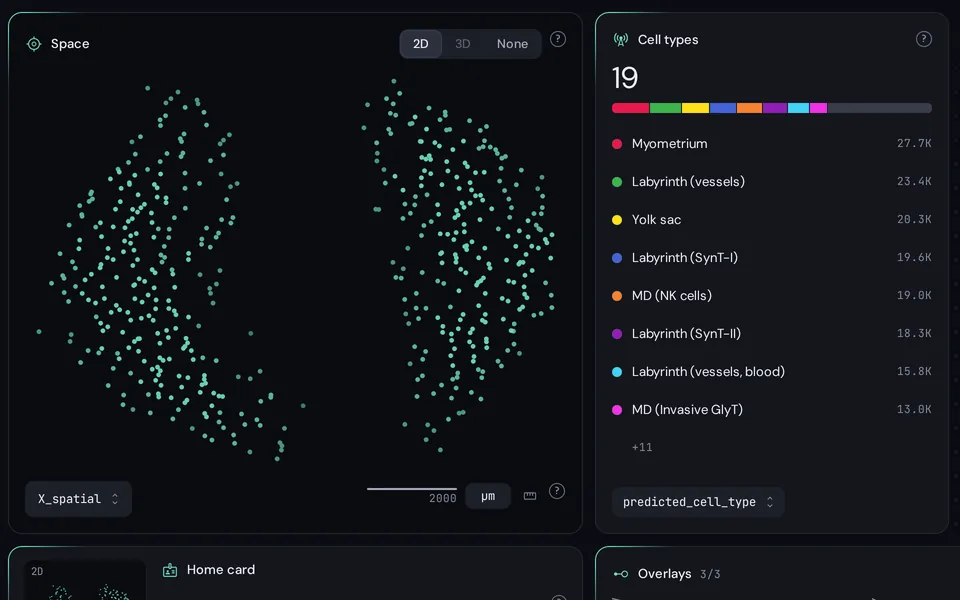
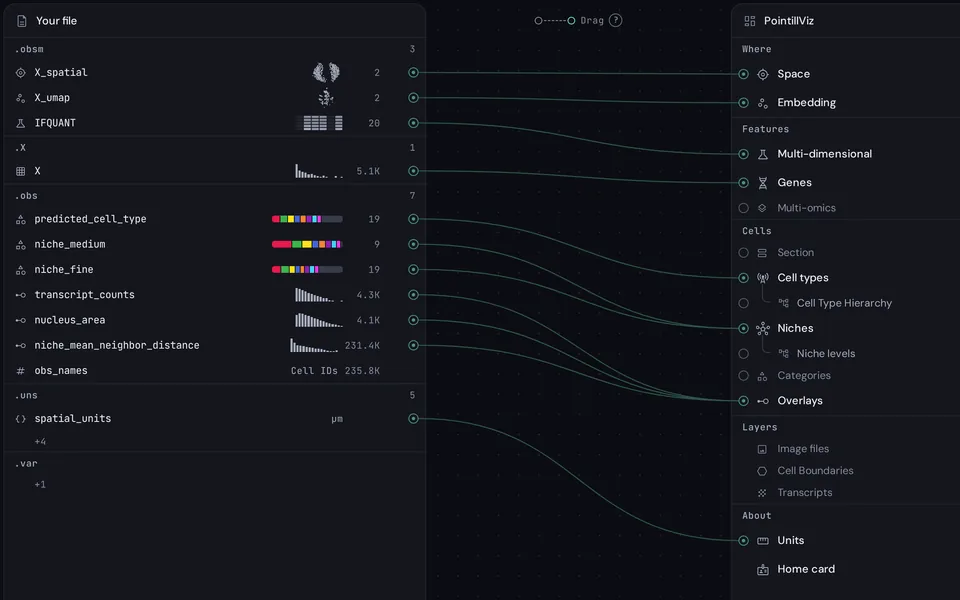
Importing: the card shows the wizard's Wires view
The Importing card on the docs home, and the page's social card, show the
Map step in the Wires view instead of the Tiles: the entries of the file
on the left, wired to the viewer's fields on the right. Both are cut from
the page's own Wires picture of the maternal-fetal interface.

diff --git a/index.html b/index.html
@@ -114,7 +114,7 @@
 <div class="dv-groups">
 <section class="dv-group dv-group--n2" id="start" aria-labelledby="start-h">
   <header class="dv-group__head"><h2 class="dv-group__name" id="start-h" style="--dv-name: linear-gradient(90deg, var(--dv-pink), var(--dv-mint))">Start</h2><span class="dv-group__dots" aria-hidden="true"><i data-tone="pink"></i><i data-tone="mint"></i></span></header>
-  <div class="dv-group__cards"><article class="pv-card pv-card--link dv-card" data-tone="pink"><div class="pv-card__media dv-card__media" data-theme="dark"><img src="assets/media/tut-installation-card-640.webp" srcset="assets/media/tut-installation-card-640.webp 640w, assets/media/tut-installation-card-960.webp 960w" sizes="(min-width: 1200px) 456px, (min-width: 1024px) 33vw, (min-width: 600px) 44vw, 112px" width="640" height="400" alt="The PointillViz wordmark above the six example datasets, from flat sections to 3D volumes and a brain&#x27;s five modalities as layers." decoding="async" loading="lazy"></div><div class="dv-card__body"><h3 class="dv-card__title"><a class="pv-card__link" href="installation/">Installation</a></h3></div></article><article class="pv-card pv-card--link dv-card" data-tone="mint"><div class="pv-card__media dv-card__media" data-theme="dark"><img src="assets/media/tut-importing-card-640.webp" srcset="assets/media/tut-importing-card-640.webp 640w, assets/media/tut-importing-card-960.webp 960w" sizes="(min-width: 1200px) 456px, (min-width: 1024px) 33vw, (min-width: 600px) 44vw, 112px" width="640" height="400" alt="The import wizard&#x27;s Space and Cell types tiles for the mouse maternal-fetal interface." decoding="async" loading="lazy"></div><div class="dv-card__body"><h3 class="dv-card__title"><a class="pv-card__link" href="importing/">Importing</a></h3></div></article></div>
+  <div class="dv-group__cards"><article class="pv-card pv-card--link dv-card" data-tone="pink"><div class="pv-card__media dv-card__media" data-theme="dark"><img src="assets/media/tut-installation-card-640.webp" srcset="assets/media/tut-installation-card-640.webp 640w, assets/media/tut-installation-card-960.webp 960w" sizes="(min-width: 1200px) 456px, (min-width: 1024px) 33vw, (min-width: 600px) 44vw, 112px" width="640" height="400" alt="The PointillViz wordmark above the six example datasets, from flat sections to 3D volumes and a brain&#x27;s five modalities as layers." decoding="async" loading="lazy"></div><div class="dv-card__body"><h3 class="dv-card__title"><a class="pv-card__link" href="installation/">Installation</a></h3></div></article><article class="pv-card pv-card--link dv-card" data-tone="mint"><div class="pv-card__media dv-card__media" data-theme="dark"><img src="assets/media/tut-importing-card-640.webp" srcset="assets/media/tut-importing-card-640.webp 640w, assets/media/tut-importing-card-960.webp 960w" sizes="(min-width: 1200px) 456px, (min-width: 1024px) 33vw, (min-width: 600px) 44vw, 112px" width="640" height="400" alt="The import wizard&#x27;s Wires view: the entries of the maternal-fetal interface&#x27;s file wired to the viewer&#x27;s fields." decoding="async" loading="lazy"></div><div class="dv-card__body"><h3 class="dv-card__title"><a class="pv-card__link" href="importing/">Importing</a></h3></div></article></div>
 </section><section class="dv-group dv-group--n6" id="data" aria-labelledby="data-h">
   <header class="dv-group__head"><h2 class="dv-group__name" id="data-h" style="--dv-name: linear-gradient(90deg, var(--dv-gold), var(--dv-orange), var(--dv-violet), var(--dv-violet), var(--dv-cyan), var(--dv-pink))">Data</h2><span class="dv-group__dots" aria-hidden="true"><i data-tone="gold"></i><i data-tone="orange"></i><i data-tone="violet"></i><i data-tone="violet"></i><i data-tone="cyan"></i><i data-tone="pink"></i></span></header>
   <div class="dv-group__cards"><article class="pv-card pv-card--link dv-card" data-tone="gold" data-case="2d"><div class="pv-card__media dv-card__media" data-theme="dark"><img src="assets/media/2d-data-640.webp" srcset="assets/media/2d-data-640.webp 640w, assets/media/2d-data-960.webp 960w, assets/media/2d-data-1280.webp 1280w, assets/media/2d-data-1600.webp 1600w" sizes="(min-width: 1200px) 292px, (min-width: 1024px) 21vw, (min-width: 700px) 28vw, (min-width: 600px) 92vw, 112px" width="640" height="400" alt="2D data" decoding="async" loading="lazy"><video class="dv-card__loop" muted playsinline loop preload="none" aria-hidden="true" tabindex="-1" data-src="assets/media/2d-data-loop.mp4"></video></div><div class="dv-card__body"><p class="pv-caselabel__title dv-caseline " data-case="2d">2D · Section</p><h3 class="dv-card__title"><a class="pv-card__link" href="2d-data/">2D data</a></h3></div></article><article class="pv-card pv-card--link dv-card" data-tone="orange" data-case="2d"><div class="pv-card__media dv-card__media" data-theme="dark"><img src="assets/media/tut-pathways-card-640.webp" srcset="assets/media/tut-pathways-card-640.webp 640w, assets/media/tut-pathways-card-960.webp 960w" sizes="(min-width: 1200px) 292px, (min-width: 1024px) 21vw, (min-width: 700px) 28vw, (min-width: 600px) 92vw, 112px" width="640" height="400" alt="A pathway score on the mouse maternal-fetal interface, orange at the tissue&#x27;s edge and blue at its centre." decoding="async" loading="lazy"></div><div class="dv-card__body"><p class="pv-caselabel__title dv-caseline " data-case="2d">2D · Section</p><h3 class="dv-card__title"><a class="pv-card__link" href="pathways/">Pathways</a></h3></div></article><article class="pv-card pv-card--link dv-card" data-tone="violet" data-case="2d"><div class="pv-card__media dv-card__media" data-theme="dark"><img src="assets/media/tut-cell-communication-card-640.webp" srcset="assets/media/tut-cell-communication-card-640.webp 640w, assets/media/tut-cell-communication-card-960.webp 960w" sizes="(min-width: 1200px) 292px, (min-width: 1024px) 21vw, (min-width: 700px) 28vw, (min-width: 600px) 92vw, 112px" width="640" height="400" alt="A ligand-receptor co-variation map on the mouse maternal-fetal interface: a bright yellow band in a teal tissue." decoding="async" loading="lazy"></div><div class="dv-card__body"><p class="pv-caselabel__title dv-caseline " data-case="2d">2D · Section</p><h3 class="dv-card__title"><a class="pv-card__link" href="cell-communication/">Cell communication</a></h3></div></article><article class="pv-card pv-card--link dv-card" data-tone="violet" data-case="3d"><div class="pv-card__media dv-card__media" data-theme="dark"><img src="assets/media/3d-data-card-640.webp" srcset="assets/media/3d-data-card-640.webp 640w, assets/media/3d-data-card-960.webp 960w" sizes="(min-width: 1200px) 292px, (min-width: 1024px) 21vw, (min-width: 700px) 28vw, (min-width: 600px) 92vw, 112px" width="640" height="400" alt="A HER2⁺ breast carcinoma imaged by 3D imaging mass cytometry, drawn as a volume of cells coloured by HER2, with the Scale and orientation panel and its X, Y and Z bars." decoding="async" loading="lazy"><video class="dv-card__loop" muted playsinline loop preload="none" aria-hidden="true" tabindex="-1" data-src="assets/media/3d-data-loop.mp4"></video></div><div class="dv-card__body"><p class="pv-caselabel__title dv-caseline " data-case="3d">3D · Volume</p><h3 class="dv-card__title"><a class="pv-card__link" href="3d-data/">3D data</a></h3></div></article><article class="pv-card pv-card--link dv-card" data-tone="cyan" data-case="atlas"><div class="pv-card__media dv-card__media" data-theme="dark"><img src="assets/media/atlases-640.webp" srcset="assets/media/atlases-640.webp 640w, assets/media/atlases-960.webp 960w, assets/media/atlases-1280.webp 1280w, assets/media/atlases-1600.webp 1600w" sizes="(min-width: 1200px) 292px, (min-width: 1024px) 21vw, (min-width: 700px) 28vw, (min-width: 600px) 92vw, 112px" width="640" height="400" alt="Fourteen mouse tissues of one tissue microarray composed into one montage, every cell coloured by its Epcam level: the epithelia of the small intestine, colon and salivary gland bright orange and magenta, the stomach, bladder and kidney a dimmer purple, and brain, lymph node, liver and lung grey." decoding="async" loading="lazy"></div><div class="dv-card__body"><p class="pv-caselabel__title dv-caseline " data-case="atlas">Atlas · Cohort</p><h3 class="dv-card__title"><a class="pv-card__link" href="atlases/">Atlases</a></h3></div></article><article class="pv-card pv-card--link dv-card" data-tone="pink" data-case="omics"><div class="pv-card__media dv-card__media" data-theme="dark"><img src="assets/media/multimodal-640.webp" srcset="assets/media/multimodal-640.webp 640w, assets/media/multimodal-1280.webp 1280w" sizes="(min-width: 1200px) 292px, (min-width: 1024px) 21vw, (min-width: 700px) 28vw, (min-width: 600px) 92vw, 112px" width="640" height="400" alt="Pde10a in RNA, ATAC, H3K27ac and H3K27me3, four maps of the same mouse brain section side by side." decoding="async" loading="lazy"></div><div class="dv-card__body"><p class="pv-caselabel__title dv-caseline " data-case="omics">Multi-omics</p><h3 class="dv-card__title"><a class="pv-card__link" href="multimodal/">Multimodal</a></h3></div></article></div>
